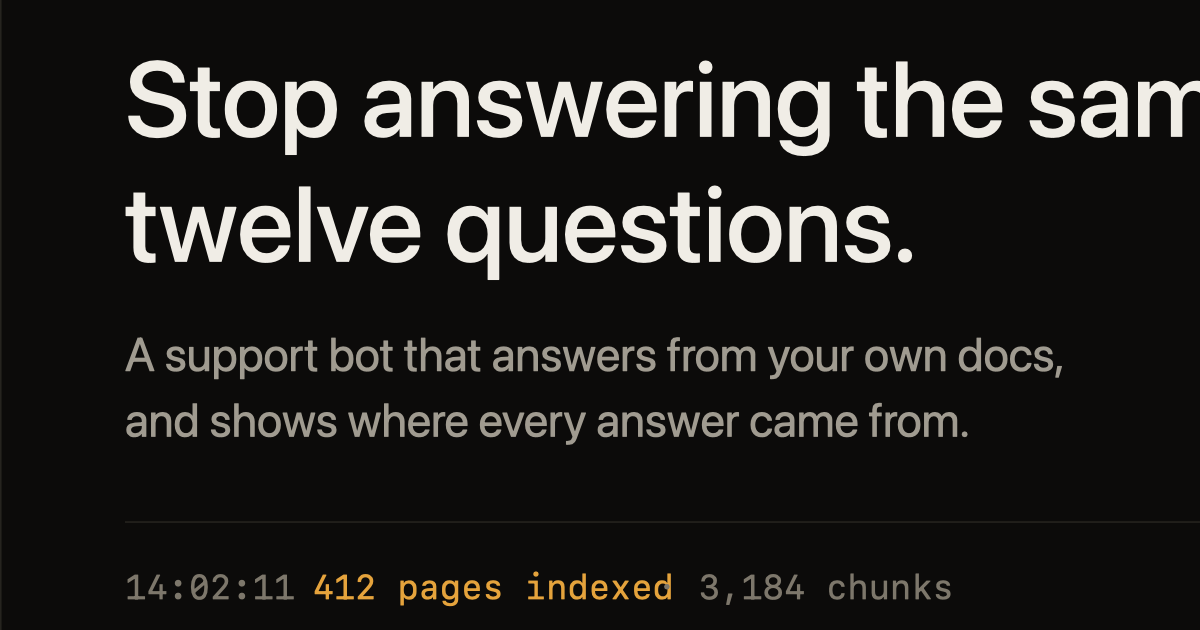
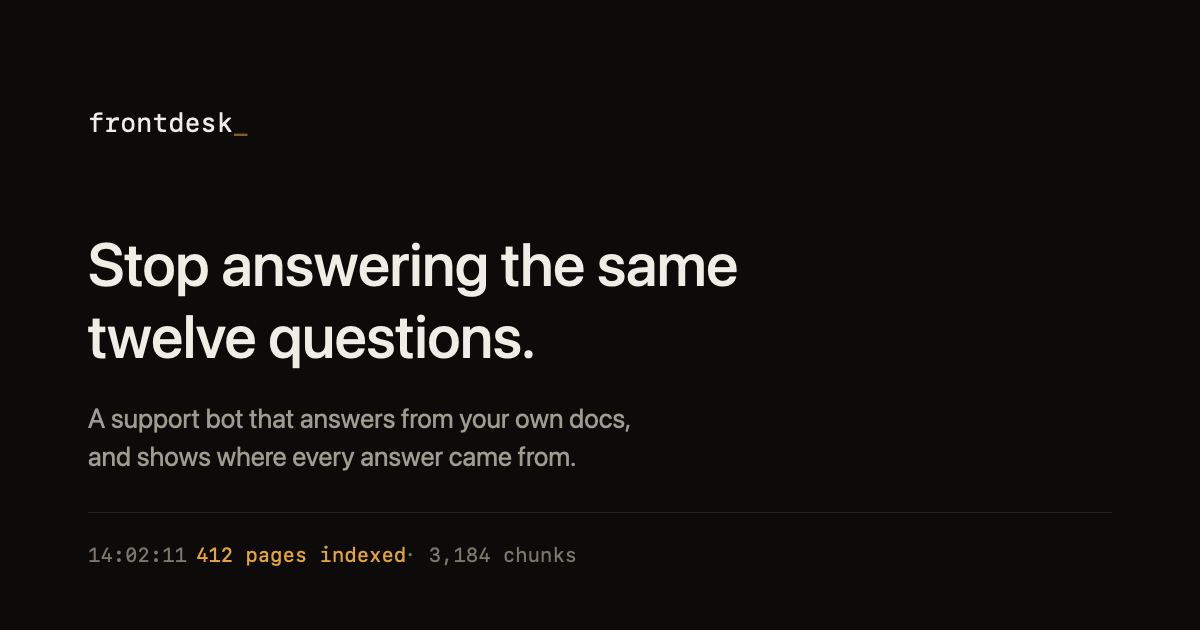
og image renders unclipped, and the slider keeps its focus ring
QuickLook scales an SVG to fit height and clips the width, which cut the
headline mid-word. The artwork is now rendered through a square canvas
at 1:1 and the 1200x630 band sliced back out, verified by reading the
pixels: every line sits inside the 88px margins.

.fd-range carried outline: none, so the strictness slider was the one
control that took focus without showing it.

diff --git a/src/styles/index.css b/src/styles/index.css
@@ -56,7 +56,8 @@
     height: 4px;
     background: var(--border);
     border-radius: 2px;
-    outline: none;
+    /* No outline reset here: the focus ring in @layer base is the one thing
+       every interactive element must keep. */
   }
   .fd-range::-webkit-slider-thumb {
     -webkit-appearance: none;
